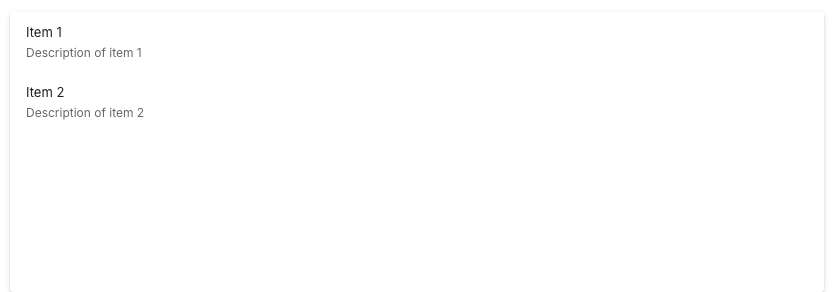
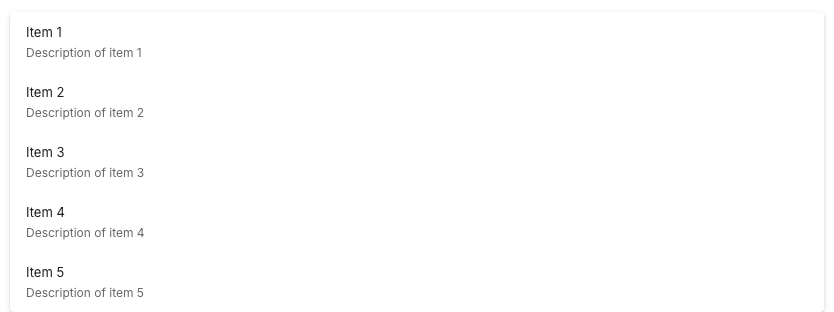
ZK-6112: fix the tablet pop-up defects and test the bottom sheets on a page wider than the screen (follow-up 65)

diff --git a/zkpreview/src/test/playwright/tablet.spec.ts b/zkpreview/src/test/playwright/tablet.spec.ts
@@ -797,6 +797,26 @@ async function expectBottomSheet(page: Page, popup: Locator): Promise<void> {
   expect(box.width, 'sheet spans the viewport minus both insets').toBeCloseTo(viewport.width - 20, 0);
 }
 
+/** The sheet is as tall as the JS asked for (inline height): a max-height inherited from the desktop rule would hide the last rows. */
+async function expectSheetKeepsJsHeight(popup: Locator): Promise<void> {
+  const { rendered, requested } = await popup.evaluate(el => ({ rendered: el.getBoundingClientRect().height, requested: parseFloat(el.style.height) }));
+  expect(requested, 'the touch mold sets an inline height').toBeGreaterThan(0);
+  expect(rendered, 'sheet is as tall as its inline height').toBeCloseTo(requested, 0);
+}
+
+/** More items than the sheet shows: the last row that fits completely ends on the sheet's bottom edge, none is cut. */
+async function expectLastVisibleRowEndsOnSheetBottom(popup: Locator): Promise<void> {
+  const { items, rowsInside, lastInsideBottom, sheetBottom } = await popup.evaluate(el => {
+    const sheet = el.getBoundingClientRect();
+    const rows = Array.from(el.querySelectorAll('.z-comboitem'), row => row.getBoundingClientRect());
+    const inside = rows.filter(row => row.bottom <= sheet.bottom + 1);
+    return { items: rows.length, rowsInside: inside.length, lastInsideBottom: inside[inside.length - 1].bottom, sheetBottom: sheet.bottom };
+  });
+  expect(items, 'more items than the 5 rows of the sheet').toBeGreaterThan(5);
+  expect(rowsInside, 'the sheet shows 5 complete rows').toBe(5);
+  expect(Math.abs(lastInsideBottom - sheetBottom), 'the 5th row ends on the sheet bottom edge').toBeLessThanOrEqual(1);
+}
+
 /** Every box in `targets` is at least `min` px tall (and wide, when `alsoWide`): the MD3 touch target of the tablet CSS. */
 async function expectTouchTargets(targets: Locator, min: number, what: string, alsoWide = false): Promise<void> {
   const boxes = await targets.evaluateAll(els => els.map(e => {
@@ -812,17 +832,22 @@ async function expectTouchTargets(targets: Locator, min: number, what: string, a
 
 test.describe('tablet-popup', () => {
   // ---- combobox: bottom sheet (tablet/_inputs.css) ----
-  test('combobox.zul: tap the arrow to open the bottom sheet', async ({ page }) => {
-    await openTabletPage(page, '/combobox.zul');
-    await tapCentre(page, page.locator(`.z-combobox${PLAIN_WIDGET} .z-combobox-button`).first());
+  // 8 items on pv/popup-tablet-fixtures.zul: the sheet shows 5 rows (5 x 60px), so the list scrolls and a row meets the bottom edge.
+  test('combobox: tap the arrow of a list with more items than the sheet shows, the 5th row ends on the sheet bottom (pv/popup-tablet-fixtures.zul)', async ({ page }) => {
+    await openTabletPage(page, '/pv/popup-tablet-fixtures.zul');
+    await tapCentre(page, page.locator('.z-combobox-button').first());
+    await expectSheetKeepsJsHeight(page.locator('.z-combobox-popup:visible'));
+    await expectLastVisibleRowEndsOnSheetBottom(page.locator('.z-combobox-popup:visible'));
     const popup = await tabletPopupShot(page, '.z-combobox-popup', ['z-combobox-popup', 'z-comboitem'], 'combobox-tablet-popup-sheet.png');
     await expectBottomSheet(page, popup);
     await expectTouchTargets(popup.locator('.z-comboitem'), 44, 'comboitem');
   });
 
-  test('combobox.zul: the bottom sheet of items with a description', async ({ page }) => {
-    await openTabletPage(page, '/combobox.zul');
-    await tapCentre(page, labelledWidget(page, 'With description', 'z-combobox').locator('.z-combobox-button'));
+  test('combobox: the bottom sheet of 8 items with a description (pv/popup-tablet-fixtures.zul)', async ({ page }) => {
+    await openTabletPage(page, '/pv/popup-tablet-fixtures.zul');
+    await tapCentre(page, page.locator('.z-combobox-button').nth(1));
+    await expectSheetKeepsJsHeight(page.locator('.z-combobox-popup:visible'));
+    await expectLastVisibleRowEndsOnSheetBottom(page.locator('.z-combobox-popup:visible'));
     const popup = await tabletPopupShot(page, '.z-combobox-popup', ['z-combobox-popup', 'z-comboitem', 'z-comboitem-inner'], 'combobox-tablet-popup-description.png');
     await expectBottomSheet(page, popup);
     await expectTouchTargets(popup.locator('.z-comboitem'), 44, 'comboitem with a description');
@@ -845,6 +870,16 @@ test.describe('tablet-popup', () => {
   test('datebox.zul: the date wheel with the time in the popup', async ({ page }) => {
     await openTabletPage(page, '/datebox.zul');
     await tapCentre(page, labelledWidget(page, 'Time in popup (yyyy/MM/dd HH:mm)', 'z-datebox').locator('.z-datebox-button'));
+    // the date band and the time band meet edge to edge, with square inner corners: no notch between them
+    const sheet = page.locator('.z-datebox-popup:visible');
+    await expect(sheet, 'exactly one visible datebox popup').toHaveCount(1);
+    const dateBand = sheet.locator('.z-calendar-wheel-date .z-calendar-wheel-line');
+    const timeBand = sheet.locator('.z-timebox-wheel-time .z-timebox-wheel-line');
+    await settledBox(page, sheet);
+    const [dateBox, timeBox] = [(await dateBand.boundingBox())!, (await timeBand.boundingBox())!];
+    expect(dateBox.x + dateBox.width, 'the date band ends where the time band starts').toBeCloseTo(timeBox.x, 0);
+    for (const corner of ['top-right', 'bottom-right']) await expect(dateBand, `date band ${corner} corner`).toHaveCSS(`border-${corner}-radius`, '0px');
+    for (const corner of ['top-left', 'bottom-left']) await expect(timeBand, `time band ${corner} corner`).toHaveCSS(`border-${corner}-radius`, '0px');
     const popup = await tabletPopupShot(page, '.z-datebox-popup',
       ['z-calendar-wheel-cave', 'z-calendar-wheel-list-selected', 'z-timebox-wheel-time'],
       'datebox-tablet-popup-wheel-time.png');
@@ -873,22 +908,54 @@ test.describe('tablet-popup', () => {
     await tapCentre(page, page.locator('.z-colorbox:not(.z-colorbox-disabled)').first());
     const popup = await tabletPopupShot(page, '.z-colorbox-popup',
       ['z-colorbox-popup', 'z-colorpalette', 'z-colorpalette-color', 'z-colorpalette-input'], 'colorbox-tablet-popup-palette.png');
-    await expect(popup, 'detached to <body> as a pop-up layer').toHaveCSS('position', 'absolute');
+    await expect(popup, 'detached to <body> as a pop-up layer, pinned to the viewport').toHaveCSS('position', 'fixed');
     expect(await popup.evaluate(el => el.parentElement!.tagName)).toBe('BODY');
     const box = await settledBox(page, popup);
     expect(box.y + box.height, 'palette rests on the viewport bottom').toBeCloseTo(page.viewportSize()!.height, -1);
   });
 
-  // KNOWN MARBLE DEFECT RECORDED IN THIS BASELINE: on a tablet the three input rows of the picker overlap by 5px and the
-  // HEX box is cut by 4px (zkex colorbox.css pins the rows at top 0/43/86px, tablet _inputs.css makes the inputs 48px high).
-  // colorbox-tablet-popup-picker.png must be re-cut once that is fixed.
   test('colorbox.zul: tap the picker icon to switch the popup to the picker', async ({ page }) => {
     await openTabletPage(page, '/colorbox.zul');
     await tapCentre(page, page.locator('.z-colorbox:not(.z-colorbox-disabled)').nth(1));
     await tapCentre(page, page.locator('.z-colorbox-pickericon:visible'));
+    // The picker pins its RGB / HSV / HEX rows with fixed offsets; the 48px touch inputs must not overlap or leave the picker.
+    const picker = page.locator('.z-colorpicker:visible');
+    await expect(picker).toHaveCount(1);
+    await settledBox(page, picker);
+    const rows = await Promise.all(['rgb', 'hsv', 'hex'].map(async row => (await picker.locator(`.z-colorpicker-${row} .z-colorpicker-input`).first().boundingBox())!));
+    const pickerBox = (await picker.boundingBox())!;
+    expect(rows[0].y + rows[0].height, 'RGB row ends above the HSV row').toBeLessThanOrEqual(rows[1].y);
+    expect(rows[1].y + rows[1].height, 'HSV row ends above the HEX row').toBeLessThanOrEqual(rows[2].y);
+    expect(rows[2].y + rows[2].height, 'HEX input ends inside the picker').toBeLessThanOrEqual(pickerBox.y + pickerBox.height);
     const popup = await tabletPopupShot(page, '.z-colorbox-popup', ['z-colorpicker'], 'colorbox-tablet-popup-picker.png');
     await expect(popup.locator('.z-colorpicker:visible')).toHaveCount(1);
     await expect(popup.locator('.z-colorpalette-color:visible')).toHaveCount(0);
+  });
+
+  test('colorbox: tap to open the popup on a scrolled page, the page does not scroll (pv/popup-tablet-fixtures.zul)', async ({ page }) => {
+    await openTabletPage(page, '/pv/popup-tablet-fixtures.zul');
+    const trigger = page.locator('.z-colorbox');
+    await page.evaluate(() => window.scrollTo(0, 100));
+    const scrollBefore = await page.evaluate(() => window.scrollY);
+    expect(scrollBefore, 'the fixture page is scrollable').toBeGreaterThan(0);
+    await tapCentre(page, trigger);
+    const popupBox = await settledBox(page, page.locator('.z-colorbox-popup:visible'));
+    expect(popupBox.y + popupBox.height, 'the popup rests on the viewport bottom, not on the bottom of the page').toBeCloseTo(page.viewportSize()!.height, -1);
+    const viewportWidth = page.viewportSize()!.width;
+    const [leftGap, rightGap] = [popupBox.x, viewportWidth - (popupBox.x + popupBox.width)];
+    expect(Math.abs(leftGap - rightGap), `the sheet is centred: left gap ${leftGap}px, right gap ${rightGap}px`).toBeLessThanOrEqual(1);
+    const content = await page.locator('.z-colorbox-popup:visible').evaluate(el => {
+      const padding = parseFloat(getComputedStyle(el).paddingLeft) + parseFloat(getComputedStyle(el).paddingRight);
+      const border = parseFloat(getComputedStyle(el).borderLeftWidth) + parseFloat(getComputedStyle(el).borderRightWidth);
+      const widest = Math.max(...Array.from(el.children, child => child.getBoundingClientRect().width));
+      return widest + padding + border;
+    });
+    expect(popupBox.width, 'the sheet is as wide as its content').toBeLessThanOrEqual(content + 1);
+    expect(popupBox.width, 'the sheet is clearly narrower than the viewport').toBeLessThan(viewportWidth * 0.6);
+    expect(await page.evaluate(() => window.scrollY), 'opening the popup does not scroll the page').toBe(scrollBefore);
+    const triggerBox = (await trigger.boundingBox())!;
+    expect(triggerBox.y, 'the trigger is still in the viewport').toBeGreaterThanOrEqual(0);
+    expect(triggerBox.y + triggerBox.height, 'the trigger is still in the viewport').toBeLessThanOrEqual(page.viewportSize()!.height);
   });
 
   // ---- menu, combobutton, column menu: the rows grow to the touch target (tablet/_menu.css, _buttons.css, _mesh.css) ----
@@ -986,5 +1053,46 @@ test.describe('tablet-popup', () => {
     const popup = await tabletPopupShot(page, '.z-confirmpopup-open',
       ['z-confirmpopup-open', 'z-confirmpopup-ok', 'z-confirmpopup-cancel'], 'confirmpopup-tablet-popup-open.png');
     await expectTouchTargets(popup.locator('.z-confirmpopup-ok, .z-confirmpopup-cancel'), 44, 'confirm button');
+  });
+});
+
+// -------------------------------------------------------
+// The bottom sheets are position:fixed. A page wider than the screen makes the browser enlarge the layout viewport that
+// fixed boxes are measured against (window.innerHeight 1668 against 1112 visible here), so `bottom: 0` sank below the
+// visible area. The sheet must sit in the VISIBLE area, which is visualViewport.
+// -------------------------------------------------------
+test.describe('tablet-popup-page-wider-than-screen', () => {
+  test.use({ viewport: { width: 600, height: 1112 } });
+
+  const sheets = [
+    { name: 'colorbox', trigger: '.z-colorbox', popup: '.z-colorbox-popup' },
+    { name: 'combobox', trigger: '.z-combobox-button', popup: '.z-combobox-popup' },
+    { name: 'datebox wheel', trigger: '.z-datebox-button', popup: '.z-datebox-popup' },
+  ];
+
+  test('the colorbox, combobox and datebox sheets stay inside the visible area (pv/popup-tablet-overflow-fixtures.zul)', async ({ page }) => {
+    for (const { name, trigger, popup } of sheets) {
+      await openTabletPage(page, '/pv/popup-tablet-overflow-fixtures.zul');
+      const layoutWidth = await page.evaluate(() => document.documentElement.scrollWidth);
+      expect(layoutWidth, 'the fixture page is wider than the 600px screen').toBeGreaterThan(page.viewportSize()!.width);
+      await tapCentre(page, page.locator(trigger));
+      await settledBox(page, page.locator(`${popup}:visible`));
+
+      const { sheet, visible, scrollY } = await page.locator(`${popup}:visible`).evaluate(el => {
+        const rect = el.getBoundingClientRect();
+        const vv = window.visualViewport!;
+        return {
+          sheet: { left: rect.left, right: rect.right, bottom: rect.bottom },
+          visible: { left: vv.offsetLeft, right: vv.offsetLeft + vv.width, bottom: vv.offsetTop + vv.height },
+          scrollY: window.scrollY,
+        };
+      });
+      expect(Math.abs(sheet.bottom - visible.bottom), `${name}: the sheet bottom sits on the bottom of the visible area`).toBeLessThanOrEqual(1);
+      expect(sheet.left, `${name}: the sheet starts inside the visible area`).toBeGreaterThanOrEqual(visible.left - 1);
+      expect(sheet.right, `${name}: the sheet ends inside the visible area`).toBeLessThanOrEqual(visible.right + 1);
+      expect(scrollY, `${name}: opening the sheet does not scroll the page`).toBe(0);
+      const triggerBox = (await page.locator(trigger).boundingBox())!;
+      expect(triggerBox.y + triggerBox.height, `${name}: the trigger is still in the visible area`).toBeLessThanOrEqual(visible.bottom);
+    }
   });
 });

diff --git a/zul/src/main/resources/web/js/zul/sel/css/tree.css b/zul/src/main/resources/web/js/zul/sel/css/tree.css
@@ -469,11 +469,6 @@
     pointer-events: none;
 }
 
-/* With a column-menu button, sit the sort icon just left of it. */
-.z-treecol:has(.z-treecol-button) .z-treecol-sorticon {
-    right: calc(var(--zk-spacing-1) * 2 + 24px);
-}
-
 /* Sort direction = arrow (up = ascending, down = descending), distinct from the
    caret used by the tree open/close icon and the column menu. */
 .z-treecol-sorticon .z-icon-caret-up {
@@ -545,9 +540,8 @@
    24px). `overflow: hidden` clips at the padding box, so with the padding on the content div the ellipsis lands in the
    right padding, where it used to be clipped away with the padding on the TH. Clip the paint at the content box again
    instead of dropping the ellipsis, which a labelled select-all header keeps (mesh-header-footer.spec.ts:
-   `.mhf-tree-checkbox-only` paints no ellipsis). A sortable header or one with the column-menu button keeps the room
-   its icon uses inside that padding. */
-.z-treecol:not(.z-treecol-sort, :has(.z-treecol-button)) > .z-treecol-content:has(.z-treecol-checkable) {
+   `.mhf-tree-checkbox-only` paints no ellipsis). A sortable header keeps the room its icon uses inside that padding. */
+.z-treecol:not(.z-treecol-sort) > .z-treecol-content:has(.z-treecol-checkable) {
     clip-path: inset(0 var(--zk-spacing-1) 0 0);
 }
 
@@ -562,7 +556,7 @@
    and a 4px margin on each side of the box centre it, also in a 24px column. The content stays a block, so a header
    that holds a label keeps its ellipsis, and a label wider than the column starts at the box instead of centring the
    overflow (follow-up 59; a flex row put the box of a 100px column outside it). A sorted header keeps its padding for
-   the sort icon, and a header with the column-menu button keeps the room the button reserves.
+   the sort icon.
    Row: the spacer after the box of a leaf (20px and a 4px gap) was centred with the box and pushed it 12px left of
    centre; its 16px side padding put a 24px column's box 4px right of centre. Both apply to a level-0 leaf cell that
    holds the box and that one spacer only (the box is followed by the spacer and nothing else). Next to a label or a
@@ -575,11 +569,11 @@
    anchored to the rows of the tree itself, and the rules reach the header and the rows of that tree only, so a tree is
    judged on its own rows and does not centre or judge a tree that one of its cells holds (follow-up 59, NS31). With
    the paging mold or ROD only the rendered rows count: a page of leaves is centred, a page with a container row is not. */
-.z-tree:not(:has(> .z-tree-body > table > tbody > tr > td > .z-treecell-content > .z-treerow-checkable + .z-tree-icon)) > .z-tree-header .z-treecol:is([style*="text-align:center"], [style*="text-align: center"]):not(.z-treecol-sort, :has(.z-treecol-button)):has(.z-treecol-checkable) > .z-treecol-content {
+.z-tree:not(:has(> .z-tree-body > table > tbody > tr > td > .z-treecell-content > .z-treerow-checkable + .z-tree-icon)) > .z-tree-header .z-treecol:is([style*="text-align:center"], [style*="text-align: center"]):not(.z-treecol-sort):has(.z-treecol-checkable) > .z-treecol-content {
     padding-inline: 0;
 }
 
-.z-tree:not(:has(> .z-tree-body > table > tbody > tr > td > .z-treecell-content > .z-treerow-checkable + .z-tree-icon)) > .z-tree-header .z-treecol:is([style*="text-align:center"], [style*="text-align: center"]):not(.z-treecol-sort, :has(.z-treecol-button)) > .z-treecol-content > .z-treecol-checkable {
+.z-tree:not(:has(> .z-tree-body > table > tbody > tr > td > .z-treecell-content > .z-treerow-checkable + .z-tree-icon)) > .z-tree-header .z-treecol:is([style*="text-align:center"], [style*="text-align: center"]):not(.z-treecol-sort) > .z-treecol-content > .z-treecol-checkable {
     margin-inline: var(--zk-spacing-1);
 }
 

diff --git a/doc/marble-theme-followups.md b/doc/marble-theme-followups.md
@@ -1286,3 +1286,15 @@ Found while building and verifying the `tablet-popup` tests (`doc/marble-tablet-
 - **F9 Datebox wheel-time seam:** the date band and the time band each have their own rounded corners, leaving a notch where they meet.
 
 By design, not handled: the combobox sheet's fixed five-row height (empty space with few items) and the 358px colorbox width come from ZK touch JS (O6).
+
+**Status (2026-10-20): F2, F3, F4, F5, F6, F9 fixed** in marble `74fd35c271` (zk) and `234cbfa0f` (zkcml), verified by an independent verifier (tablet 75/75, popup 56 with the known failures below). F3 uses the three `!important`s the owner approved (D39 = A: `position`, `inset`, `transform`) plus `max-width: fit-content` and `margin-inline: auto`, so the colorbox pop-up is as wide as its content (the owner asked for this instead of a full-width sheet); `width: fit-content` does not win against the inline `width: auto` ZK writes. The F4 fixture has 8 items, in `pv/popup-tablet-fixtures.zul` (used by the tablet spec only), so the cut row is visible in the baseline. F6 also dropped `:has(.z-treecol-button)` from a rule the ZATS #1117 commit `4d02e9c9db` added.
+
+Left as found (O10), not fixed by this batch:
+
+- **Fixed bottom sheets and a page wider than the screen (D41 = A, fixed for LTR pages).** The colorbox, combobox and wheel sheets are `position: fixed` against the layout viewport, which Chromium enlarges when the page is wider than the screen (900px page on a 600px screen: 900×1668 against a visible 600×1112), so `bottom: 0` sank 88–556px below the visible area. The `inset` values of the three sheets now subtract the difference (`calc(100% - 100vw)` and `calc(100% - 100dvh)`; 0 on a page that fits, so every baseline is unchanged); no new `!important`. `dvh` is inside Marble's browser baseline (Chrome 119+, Safari 16.4+). Cost: after a pinch-out or a scroll to the end of such a page the sheet floats 88/556px above the bottom edge (still fully visible). Not fixed, measured by the verifier in Chromium only (iOS and real devices not checked): (1) RTL pages that overflow: Chromium extends the containing block to the left, so the sheets are still partly off screen, and the colorbox at 600px got worse (0.92 of the sheet visible before, 0.5 now); a logical-property version (`inset-inline-*`) is a guess, not prototyped. (2) With layout-occupying scrollbars (an iPad UA on desktop Chromium, `isMobile` false) `100vw` includes the scrollbar, so the sheets hang 6px below the visible area on a page that overflows both ways; real tablets use overlay scrollbars. (3) Panning to the right end of an overflowing page before the tap leaves the combobox and wheel 41%/0% visible. The cause is Marble's `position: fixed; bottom: 0`, not ZK: with the three Marble overrides removed (Android UA) the widget's own `jq.innerHeight() + scrollY` placement keeps the colorbox and the wheels at the bottom of the visible area on pages that fit and on pages that overflow (the colorbox once the focus scroll below is fixed); only the combobox sits 4px low. ZK's iOS branch uses `window.innerHeight`, which Chromium enlarges on an overflowing page; the stock placement was wrong only for Chromium with an iPad UA (a hybrid no real device has). Playwright WebKit (iPad Pro 11 and Galaxy Tab S4 profiles, macOS WebKit 26.4, not iOS Safari) reports `innerHeight` equal to the visible area and places the stock sheet correctly, so no ZK Jira was drafted for the overflow. Separate finding, stock ZK and Marble alike (Chromium, Android UA, scale set by CDP, not a real pinch): after zooming in to 2× the sheets sit at the bottom of the layout viewport (802–1112) while only 0–556 is visible, so they are not seen; a Jira would be titled "positioned from the layout viewport, not the visual viewport"; not verified on a device.
+- **Preview pages wider than a 600px screen (O5, not fixed).** `signature` (two `<signature width="600px">` and an `<image width="600px">` in a `z-p-8` container: 632px), `grid-header` (table 700px), `tabbox-misc` (tabbox 680px), `preview` (`z-grid-col-full` 1207px) have sheet triggers; `carousel`, `checkbox`, `grid-detail`, `navbar`, `responsive-grid`, `stepbar`, `tabbox` do not; `responsive-grid` and `tabbox` also overflow at 834px. The simple fix for `signature.zul` (`z-max-w-100`) was tried and reverted: on a mobile UA ZK resizes the signature canvas only on `orientationchange`, so after a resize without rotation (iPad Split View) the bitmap is out of step with the CSS width and the ink lands up to 51px off. A real iPad in portrait is at least 768px wide, so the page fits there.
+- **Colorbox palette focus scrolls the page on tablets (cause of F3, ZK-side; reproduced without Marble).** Minimal page `<colorbox/>` plus a 2000px-tall div, tap on a touch UA: the page scrolls 585px (Chromium, Android UA, 834×1112) or 626px (Playwright WebKit, iPad Pro 11), the colorbox leaves the screen and, in IceBlue (popup `position: absolute`), the sheet stays mid-screen. It does not happen without the accessibility add-on, with a desktop UA (no touch mold), or when the page cannot scroll; forcing `preventScroll` on that one focus call removes it in Chromium and WebKit. Correction of the earlier note: the scrolling focus is the second `focus()` call, made through `zUtl.fireShown` after `_syncPosition()`, when the popup still sits below the screen (the first call, before `_syncPosition()`, does not scroll). Marble's `position: fixed` hides it because the button is already visible when it is focused. If ZK fixes it, the colorbox override (not the combobox's) may become unnecessary. Filed as ZK-6219 (2026-10-21, Affects 11.0.0, related to ZK-2339); findings in `doc/marble-sheet-repro-findings.md`. 10.x not tested.
+- **None of the three tablet sheets slides in.** The `zk-bottom-sheet-up` keyframe animates `transform`, and `transform: none !important` wins. Same at HEAD for the combobox and the wheel; the `_wheel.css` comment "A keyframe restores the slide-up" does not hold.
+- **Colorbox at 340px and narrower:** the sheet is the viewport width and the palette scrolls horizontally inside it (`colorbox.css` `overflow-x: auto`); it did before.
+- **`datebox.zul: open calendar with the timezone selector` (desktop UA, added in `07feed51a6`) fails in the full `popup` run (3 of 6 runs; 0 of 20 alone).** After Tab, `updateChange_` is not called. Not caused by the tablet CSS.
+- **`daterangebox-popup-open-today.png` fails in `popup` (47px against a 10px budget).** The zkcml commit `76b51e9e6` (ZK-6131, a read-only daterangebox keeps its button usable) turned the icon of the read-only daterangebox under the pop-up from faded to opaque. The baseline needs a re-cut by the session that owns that change.
